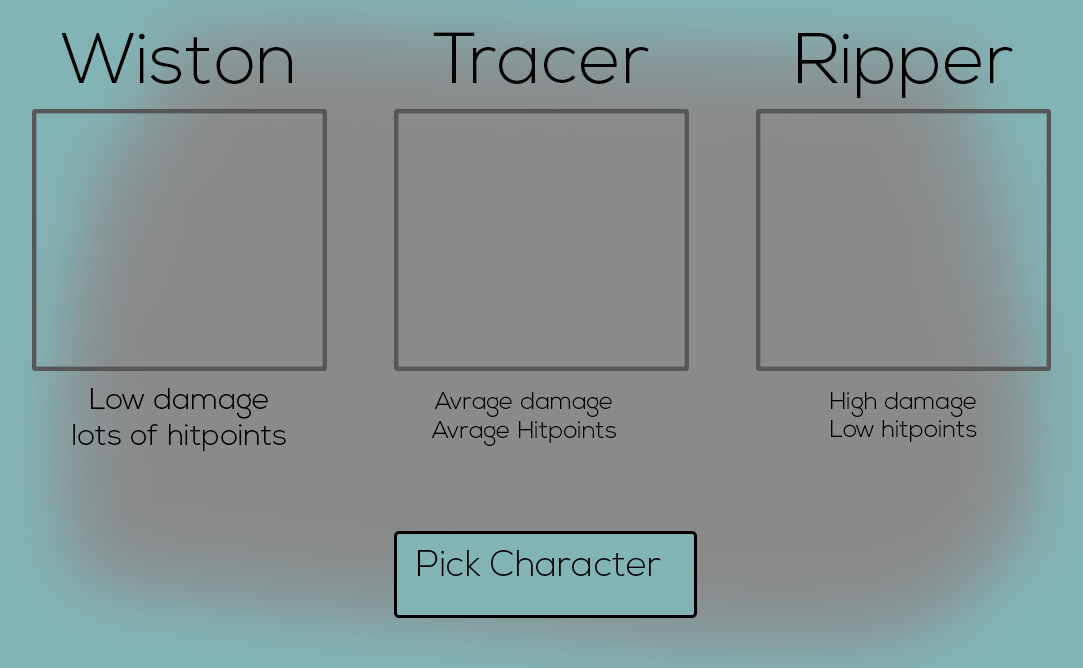
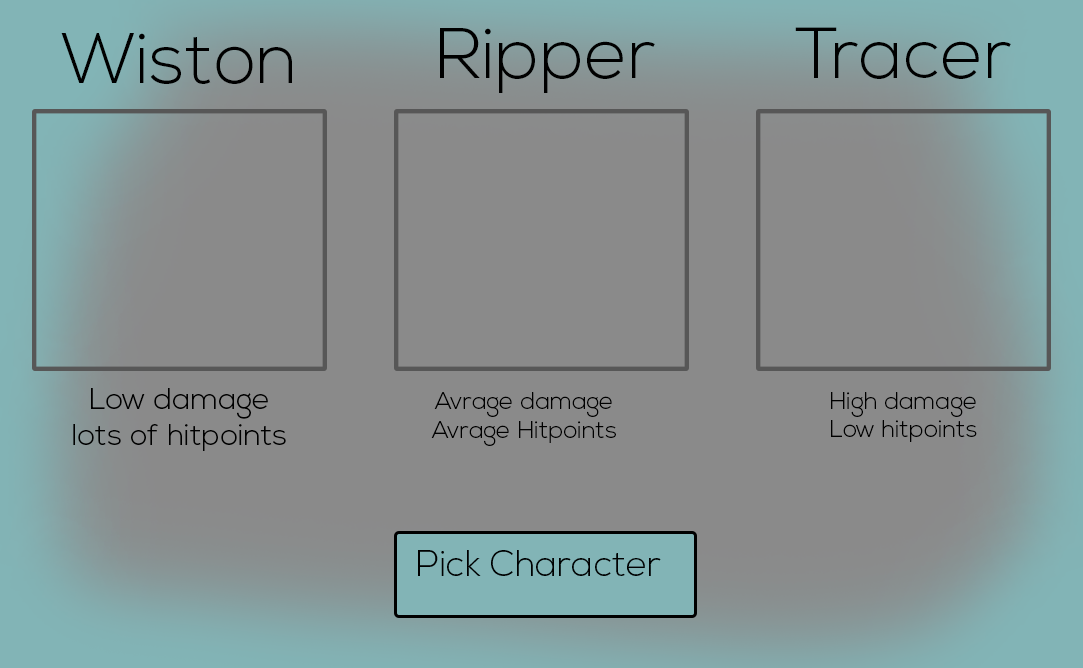
New commit

Changed region(s): [[0.3961, 0.0299, 0.6094, 0.1497], [0.7313, 0.0299, 0.9446, 0.1497]]

diff --git a/src/project/STARTUP.java b/src/project/STARTUP.java
@@ -41,23 +41,23 @@ public class STARTUP extends javax.swing.JFrame {
         getContentPane().add(jLabel2);
         jLabel2.setBounds(40, 130, 288, 220);
 
-        jLabel1.setIcon(new javax.swing.ImageIcon(getClass().getResource("/project/copy 1].jpg"))); // NOI18N
+        jLabel1.setIcon(new javax.swing.ImageIcon(getClass().getResource("/project/tracer_presskit - Copy.png"))); // NOI18N
         jLabel1.addMouseListener(new java.awt.event.MouseAdapter() {
             public void mouseClicked(java.awt.event.MouseEvent evt) {
                 jLabel1MouseClicked(evt);
             }
         });
         getContentPane().add(jLabel1);
-        jLabel1.setBounds(410, 120, 278, 256);
+        jLabel1.setBounds(790, 90, 250, 310);
 
-        jLabel3.setIcon(new javax.swing.ImageIcon(getClass().getResource("/project/copy 2.jpg"))); // NOI18N
+        jLabel3.setIcon(new javax.swing.ImageIcon(getClass().getResource("/project/zft5bjshjtown4s5qrj7 - Copy (2).png"))); // NOI18N
         jLabel3.addMouseListener(new java.awt.event.MouseAdapter() {
             public void mouseClicked(java.awt.event.MouseEvent evt) {
                 jLabel3MouseClicked(evt);
             }
         });
         getContentPane().add(jLabel3);
-        jLabel3.setBounds(770, 120, 269, 256);
+        jLabel3.setBounds(430, 120, 210, 240);
 
         jLabel4.setIcon(new javax.swing.ImageIcon(getClass().getResource("/Resources/Startup.png"))); // NOI18N
         getContentPane().add(jLabel4);
